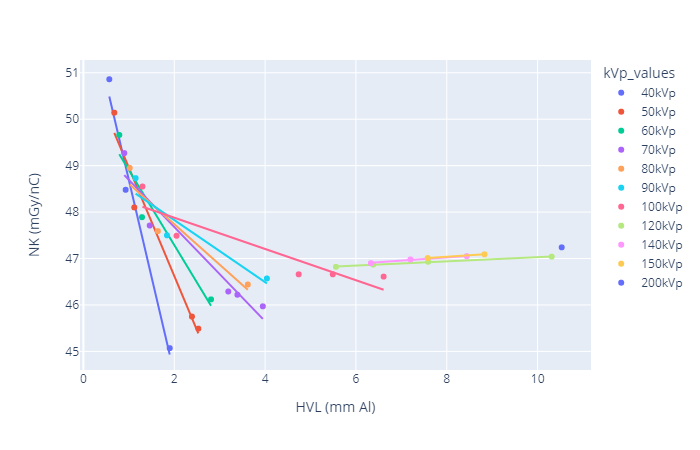
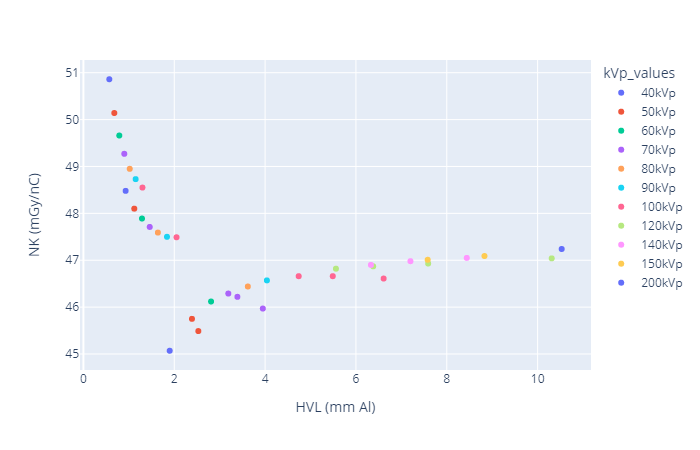
[error fix] PDF done

diff --git a/main.py b/main.py
@@ -4030,7 +4030,8 @@ class MainFrame(wx.Frame):
             graph1_data = {'kVp':KeV,'kVp_values':KeV_string,'NK (mGy/nC)':NK}
 
             graph1_df =pd.DataFrame(graph1_data)
-            pltx1 = px.scatter(graph1_df, x='kVp', y='NK (mGy/nC)', color='kVp_values',trendline="ols")
+            pltx1 = px.scatter(graph1_df, x='kVp', y='NK (mGy/nC)', color='kVp_values')
+            #pltx1 = px.line(graph1_df, x='kVp', y='NK (mGy/nC)', color='kVp_values', line_shape="spline"),trendline="ols"
             plotly.io.write_image(pltx1, file='pltx1.png', format='png', width=700, height=450)
             pltx1 = (os.getcwd() + '/' + "pltx1.png")
             pdf.set_xy(40.0, 160.0)
@@ -4070,7 +4071,8 @@ class MainFrame(wx.Frame):
             graph2_data = {'kVp': KeV_graph2, 'kVp_values': KeV_graph2_string,'HVL (mm Al)': HVL_AL,'NK (mGy/nC)': NK_graph2}
 
             graph2_df = pd.DataFrame(graph2_data)
-            pltx2 = px.scatter(graph2_df, x='HVL (mm Al)', y='NK (mGy/nC)', color='kVp_values',trendline="ols")
+            pltx2 = px.scatter(graph2_df, x='HVL (mm Al)', y='NK (mGy/nC)', color='kVp_values')
+            #pltx2 = px.line(graph2_df, x='HVL (mm Al)', y='NK (mGy/nC)', color='kVp_values', line_shape="spline") ,trendline="ols"
             plotly.io.write_image(pltx2, file='pltx2.png', format='png', width=700, height=450)
             pltx2 = (os.getcwd() + '/' + "pltx2.png")
             pdf.set_xy(40.0, 10.0)
@@ -4100,7 +4102,8 @@ class MainFrame(wx.Frame):
             graph3_data = {'kVp': KeV_graph3, 'kVp_values': KeV_graph3_string, 'HVL (mm Cu)': HVL_Cu,'NK (mGy/nC)': NK_graph3}
 
             graph3_df = pd.DataFrame(graph3_data)
-            pltx3 = px.scatter(graph3_df, x='HVL (mm Cu)', y='NK (mGy/nC)', color='kVp_values',trendline="ols")
+            pltx3 = px.scatter(graph3_df, x='HVL (mm Cu)', y='NK (mGy/nC)', color='kVp_values')
+            #pltx3 = px.line(graph3_df, x='HVL (mm Cu)', y='NK (mGy/nC)', color='kVp_values', line_shape="spline"),trendline="ols"
             plotly.io.write_image(pltx3, file='pltx3.png', format='png', width=700, height=450)
             pltx3 = (os.getcwd() + '/' + "pltx3.png")
             pdf.set_xy(40.0, 140.0)
